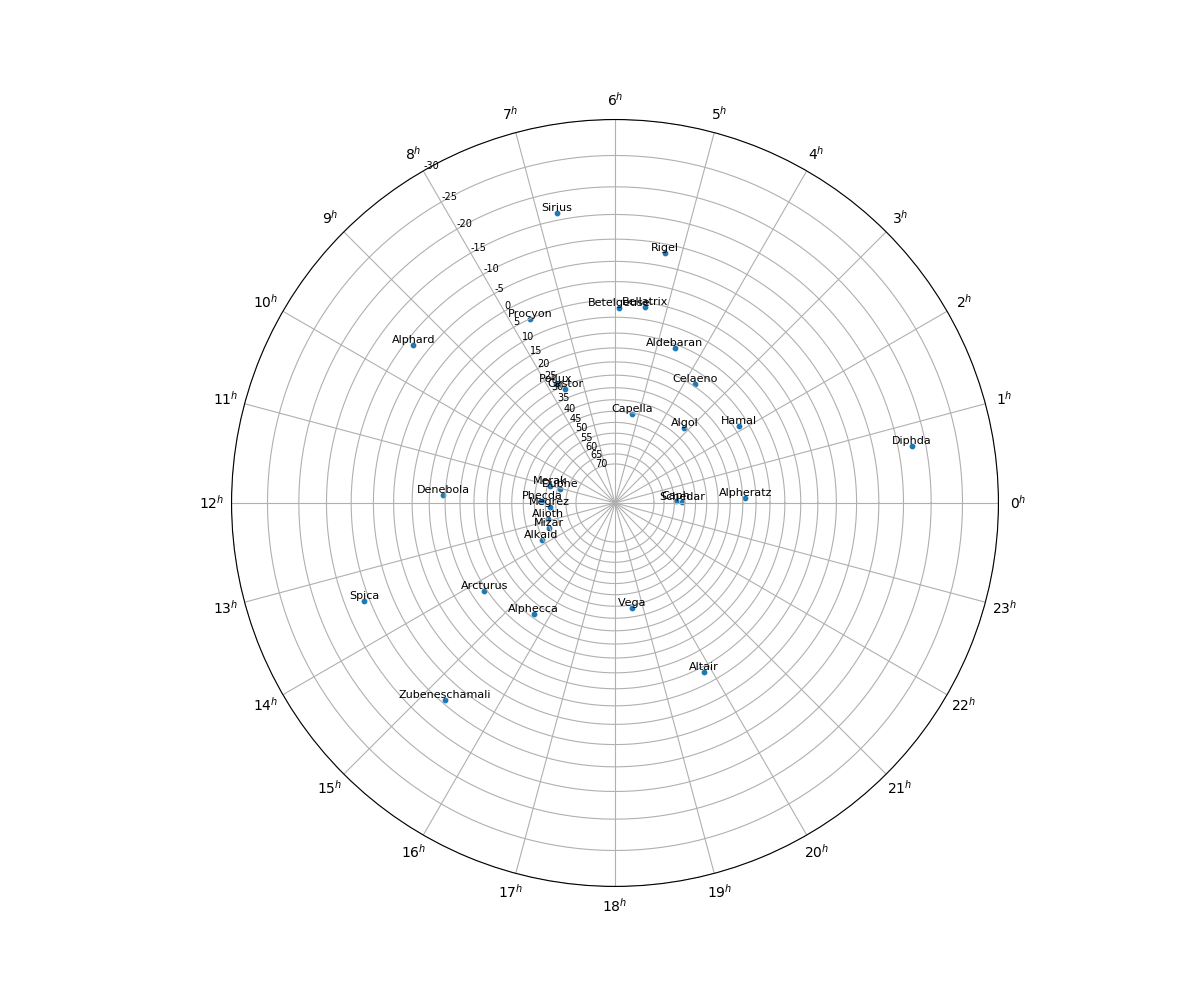
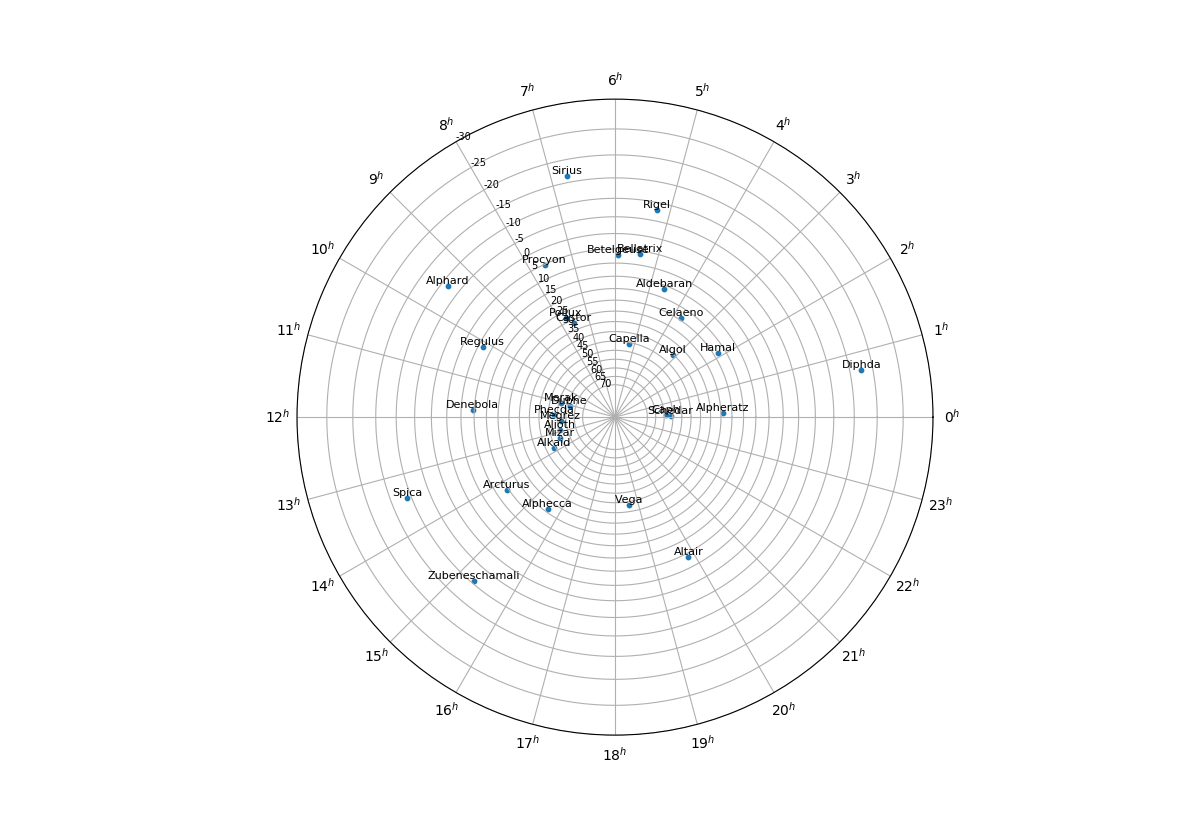
add adjustment to RA/Dec with proper motion for stars

Changed region(s): [[0.185, 0.0908, 0.8325, 0.9383], [0.4933, 0.0908, 0.5242, 0.1211], [0.1542, 0.4843, 0.185, 0.5145]]

diff --git a/page_x_astrolabe/generate_star_chart.py b/page_x_astrolabe/generate_star_chart.py
@@ -95,24 +95,22 @@ def plotCircluar(star_list, northOrSouth, year_date_YYYY, displayStarNamesLabels
 		# returns calculated RA and Declination
 		current_year = 2022
 		time_since_current_year = year_date_YYYY - current_year # postive = future, negative = past
-		print("Date {0}, RA = {1}, Dec = {2}, PM Speed = {3}, PM Angle = {4}".format(year_date_YYYY,
-																					star_ra,
-																					star_dec,
-																					star_pm_speed,
-																					star_pm_angle))
+		print("{0} Years".format(time_since_current_year))
+		#print("Date {0}, RA = {1}, Dec = {2}, PM Speed = {3}, PM Angle = {4}".format(year_date_YYYY, star_ra, star_dec, star_pm_speed, star_pm_angle))
 
-		star_pm_speed_degrees = 0.00000027777776630942 * star_pm_speed # convert mas to degrees
-		star_movement_speed_vector = star_pm_speed_degrees * time_since_current_year
-		print("Years: {0}, with speed of {1} degree and angle of {2} = {3}".format(time_since_current_year,
-																			star_pm_speed_degrees, star_pm_angle,
-																			star_movement_speed_vector))
-		ra_x_difference_component = star_movement_speed_vector * math.sin(np.deg2rad(star_pm_angle))
-		dec_y_difference_component = star_movement_speed_vector * math.cos(np.deg2rad(star_pm_angle))
-		print("(RA) x = {0}".format(ra_x_difference_component))
-		print("(DEC) y = {0}\n".format(dec_y_difference_component))
+		star_pm_speed_degrees = 0.00000027777776630942 * star_pm_speed # convert mas/yr to degrees/yr
+		star_pm_speed_radains = np.deg2rad(star_pm_speed_degrees) # radains/yr
+		star_movement_radains_per_year = star_pm_speed_radains * time_since_current_year
+		#print("Years: {0}, speed {1} (rad/yr) and angle of {2} ({3} radians)".format(time_since_current_year, star_pm_speed_radains, star_pm_angle, np.deg2rad(star_pm_angle)))
+		#print("Movement Over Time = {0} (rad/yr)".format(star_movement_radains_per_year))
+		
+		ra_x_difference_component = star_movement_radains_per_year * math.cos(np.deg2rad(star_pm_angle))
+		dec_y_difference_component = star_movement_radains_per_year * math.sin(np.deg2rad(star_pm_angle))
+		#print("(RA) x Difference = {0} (rad/yr)".format(ra_x_difference_component))
+		#print("(DEC) y Difference = {0} rad/yr ({1} degrees/yr)".format(dec_y_difference_component, np.rad2deg(dec_y_difference_component)))
 
-		star_adjusted_ra = star_ra #TODO: + ra_x_difference_component
-		star_adjusted_declination = star_dec #TODO: + dec_y_difference_component
+		star_adjusted_ra = star_ra + ra_x_difference_component # in radians
+		star_adjusted_declination = star_dec + np.rad2deg(dec_y_difference_component) # in degrees
 
 		return star_adjusted_ra, star_adjusted_declination
 
@@ -123,19 +121,22 @@ def plotCircluar(star_list, northOrSouth, year_date_YYYY, displayStarNamesLabels
 	x_ra_values = []
 	y_dec_values = []
 	for star in star_list:
-		ruler_position = declination_script.calculateLength(star[2], radius_of_circle) # convert degree to position on radius
-		print("{0}: {1} = {2:.4f}".format(star[0], star[2], ruler_position))
-		if star[2] > min_dec_value and star[2] < max_dec_value: # only display stars within range of declination values
+		print("{0}: {1} RA (radians) and {2} Declination (degrees)".format(star[0], star[1], star[2]))
+		star_ra, star_declination = calculateRAandDeclinationViaProperMotion(year_date_YYYY, 
+																			star[1], 
+																			star[2], 
+																			star[3], 
+																			star[4])
+		print("Adjusted: {0} RA (radians) = {1}".format(star[1], star_ra))
+		print("Adjusted: {0} Declination (degrees) = {1} ".format(star[2], star_declination))
+		dec_ruler_position = declination_script.calculateLength(star_declination, radius_of_circle) # convert degree to position on radius
+		#print("{0}: {1} declination = {2:.4f} cm".format(star[0], star_declination, ruler_position))
+		if star_declination > min_dec_value and star_declination < max_dec_value: # only display stars within range of declination values
 			x_star_labels.append(star[0])
-			star_ra, star_declination = calculateRAandDeclinationViaProperMotion(year_date_YYYY, 
-																				star[1], 
-																				ruler_position, 
-																				star[3], 
-																				star[4])
 			x_ra_values.append(star_ra)
-			y_dec_values.append(star_declination)
-			#x_ra_values.append(star[1])
-			#y_dec_values.append(ruler_position)
+			y_dec_values.append(dec_ruler_position)
+		print("\n")
+
 	ax.scatter(x_ra_values, y_dec_values, s=10)
 
 	# label stars (optional)
@@ -150,7 +151,7 @@ def plotCircluar(star_list, northOrSouth, year_date_YYYY, displayStarNamesLabels
 
 if __name__ == '__main__':
 	# stars to be included: 'name', ra HH.MM.SS, declination DD.SS
-	# stars: ["name", "RA: HH.MM.SS", DD.SS, Proper Motion Speed (mas/yr), Proper motion pos angle (DD.SS)]
+	# stars: ["name", "RA: HH.MM.SS", Declination DD.SS, Proper Motion Speed (mas/yr), Proper Motion Angle (DD.SS)]
 	# Northern stars (+ declination)
 	aldebaran_star = ["Aldebaran", "04.35.55", 16.30, 199.3, 161.4]
 	algol_star = ["Algol", "03.08.10", 40.57, 3.4, 119.0]
@@ -222,6 +223,7 @@ if __name__ == '__main__':
 								pollux_star,
 								phecda_star,
 								procyon_star,
+								regulus_star,
 								schedar_star,
 								spica_star,
 								vega_star
@@ -251,7 +253,7 @@ if __name__ == '__main__':
 	northOrSouth = "North" # options: "North", "South", "Full" (changes the declination range)
 	total_ruler_length = 30 # units (cut in half for each side of the ruler) (currently has to be even)
 	increment_by = 5 # increment degrees by (1, 5, 10)
-	year_of_plate_YYYY = 2024
+	year_of_plate_YYYY = 2022 - 0 # years
 
 	# Calculate declination values
 	if northOrSouth == "North":
